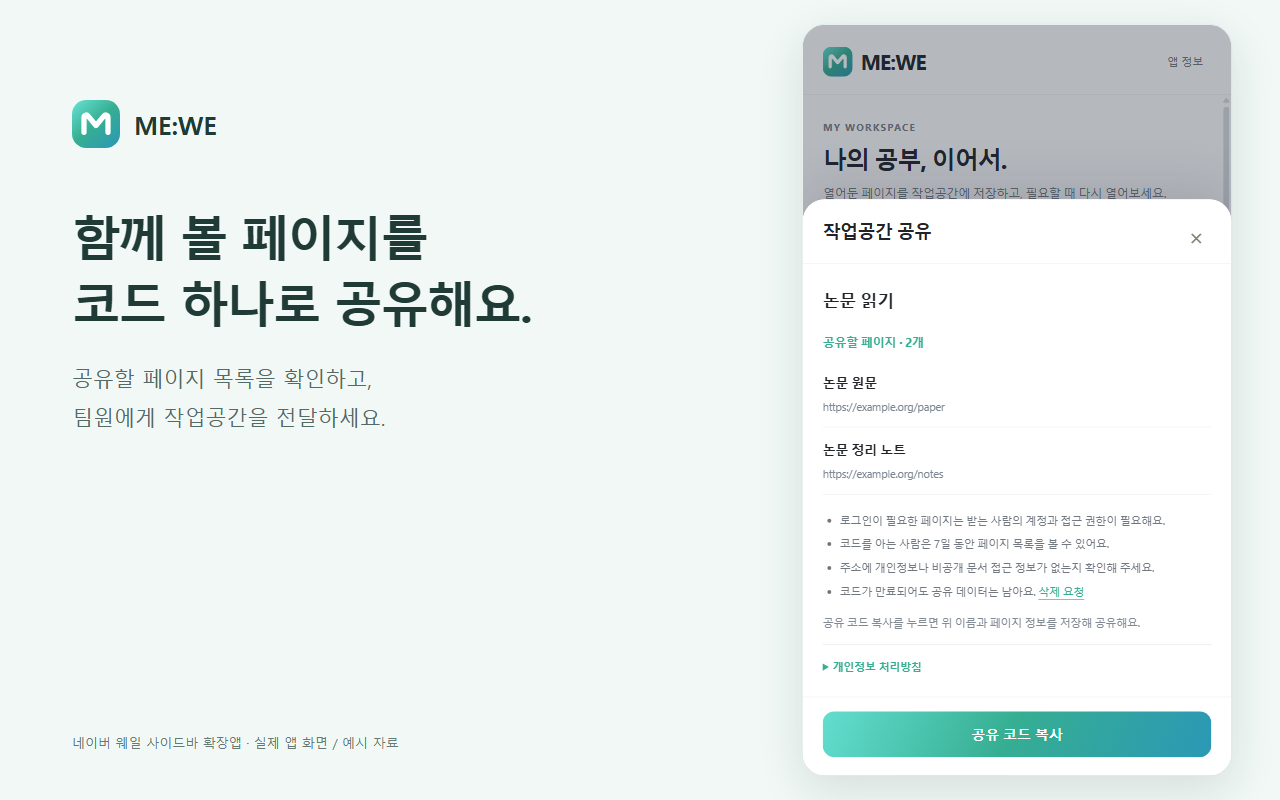
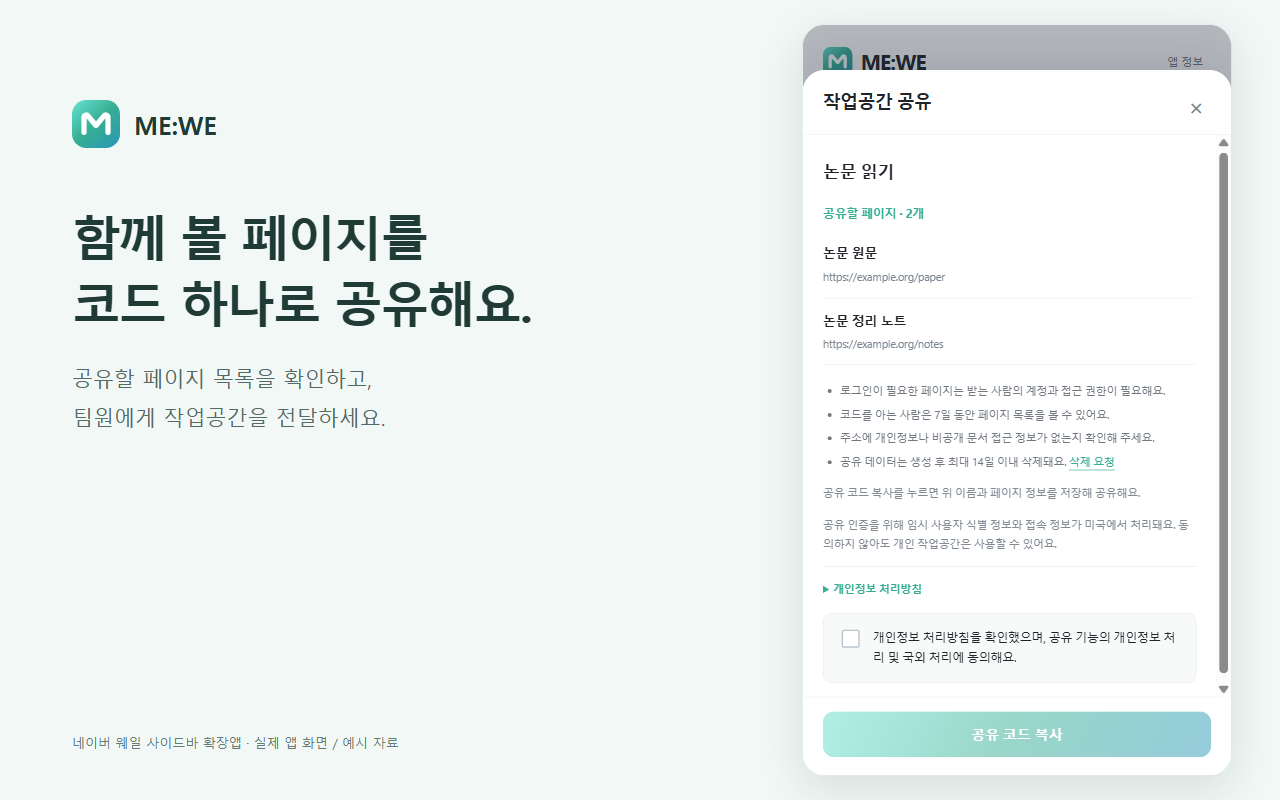
개인정보 정책 확정과 공유 동의 절차 보완

Changed region(s): [[0.625, 0.0625, 0.9688, 0.8438], [0.625, 0.4688, 0.9062, 0.8438], [0.625, 0.875, 0.9688, 0.9688]]

diff --git a/docs/privacy/index.html b/docs/privacy/index.html
@@ -1,7 +1,7 @@
-<!doctype html><html lang="ko"><head><meta charset="utf-8"><meta name="viewport" content="width=device-width,initial-scale=1"><meta name="robots" content="noindex"><title>ME:WE 개인정보 처리방침 초안</title><style>body{margin:0;background:#fff;color:#202429;font:16px/1.85 system-ui,sans-serif}main{max-width:760px;margin:auto;padding:40px 22px 64px}h1{font-size:28px;line-height:1.4}h2{font-size:20px;margin-top:36px}p{overflow-wrap:anywhere}a{color:#36ae92}aside{background:#edf9f5;padding:16px;border-radius:12px}small{color:#727880}</style></head><body><main><h1>ME:WE 개인정보 처리방침 초안</h1><small>작성일 2026-10-12</small><aside>공개 전 검토본입니다. 서버 데이터 보관·삭제 일정과 실제 Firestore 저장 위치를 확정한 뒤 시행일과 함께 공개합니다.</aside><p><a href="mailto:h33jin.jeong@gmail.com">문의: h33jin.jeong@gmail.com</a></p><section><h2>운영 및 문의</h2><p>ME:WE의 운영팀은 ewhale이며 개발자는 정희진입니다. 기능, 개인정보 처리, 삭제·처리 정지·동의 철회 및 부적절한 공유 내용에 관한 문의는 h33jin.jeong@gmail.com으로 보내 주세요.</p><p>삭제 요청 시 공유한 시점 등 확인에 필요한 최소한의 정보만 이메일로 전달해 주세요. 공유 코드나 개인정보를 공개 게시판에 올리거나 비밀번호·인증 토큰·로컬 파일을 보내지 마세요. 필요한 본인 확인과 처리 범위를 개별 안내합니다.</p></section>
+<!doctype html><html lang="ko"><head><meta charset="utf-8"><meta name="viewport" content="width=device-width,initial-scale=1"><title>ME:WE 개인정보 처리방침</title><style>body{margin:0;background:#fff;color:#202429;font:16px/1.85 system-ui,sans-serif}main{max-width:760px;margin:auto;padding:40px 22px 64px}h1{font-size:28px;line-height:1.4}h2{font-size:20px;margin-top:36px}p{overflow-wrap:anywhere}a{color:#36ae92}aside{background:#edf9f5;padding:16px;border-radius:12px}small{color:#727880}</style></head><body><main><h1>ME:WE 개인정보 처리방침</h1><small>시행일 2026-10-12</small><aside>시행일: 2026년 10월 12일. 운영팀 ewhale, 개인정보 보호 및 문의 담당자 정희진.</aside><p><a href="mailto:h33jin.jeong@gmail.com">문의: h33jin.jeong@gmail.com</a></p><section><h2>운영 및 문의</h2><p>ME:WE의 운영팀은 ewhale이며 개발자는 정희진입니다. 기능, 개인정보 처리, 삭제·처리 정지·동의 철회 및 부적절한 공유 내용에 관한 문의는 h33jin.jeong@gmail.com으로 보내 주세요.</p><p>열람·정정·삭제·처리 정지·동의 철회를 요청할 수 있습니다. 문의 이메일로 요청 범위와 공유 시점 등 확인에 필요한 최소 정보만 보내 주세요. 공유 코드와 개인 URL은 공개 게시판에 올리지 마세요. 비밀번호·인증 토큰·로컬 파일은 요구하지 않습니다. 요청자와 정보의 관계를 확인한 뒤 처리하며, 확인이 어렵거나 처리할 수 없는 경우 그 이유와 필요한 절차를 안내합니다.</p></section>
 <section><h2>기기에 저장하는 정보</h2><p>작업공간 이름, 페이지 제목·주소·순서, 듀얼탭 구성, 식별자 및 생성·수정 시각은 확장앱의 로컬 저장소에 저장합니다. 로컬 파일은 파일 내용 대신 파일 경로와 제목만 저장합니다. 개인 작업공간은 자동으로 서버에 업로드하지 않습니다.</p><p>열어둔 페이지를 가져올 때 탭 제목·주소와 ID를 읽습니다. 듀얼탭 양쪽을 확인하기 위해 debugger.getTargets로 탭 ID를 조회하지만 디버거를 연결하거나 명령을 보내지는 않습니다. 앱이 연 탭의 ID는 해당 탭만 닫기 위한 용도로 세션 저장소에 보관합니다.</p><p>공유 기능을 사용하면 익명 인증 ID와 인증·갱신 토큰을 로컬에 보관합니다. 토큰을 공유 문서에는 넣지 않습니다. 공유받은 미리보기는 세션 저장소에 최대 10건 보관하며, 최대 15분 후 사용할 수 없게 됩니다. 유효기간 경과와 저장소에서의 즉시 삭제는 동일하지 않습니다.</p></section>
-<section><h2>공유할 때 서버로 전송하는 정보</h2><p>공유 코드 복사를 누르면 미리보기에 표시된 작업공간 이름과 공유 가능한 웹페이지 제목·URL·순서·듀얼탭 구성·페이지 식별자, 익명 사용자 ID, 생성·만료 시각 및 데이터 형식 버전을 Google Firebase Cloud Firestore에 저장합니다. 목적은 공유 코드 생성과 해당 작업공간의 전달입니다.</p><p>로컬 파일의 이름·경로·내용과 브라우저 탭 ID는 공유 문서에서 제외합니다. 쿠키, 웹사이트 로그인 세션, 페이지 본문을 수집해 전송하지 않습니다. 다만 웹 주소 자체에는 검색어, 개인 식별 정보 또는 문서 접근 토큰이 포함될 수 있으므로 공유 전에 주소를 확인해야 합니다.</p><p>공유와 받기는 선택 기능입니다. 이를 사용하지 않아도 개인 작업공간을 저장하고 다시 열 수 있습니다. 공유 코드 생성 또는 코드 확인 시 Firebase 익명 인증을 사용하며 이름·이메일·비밀번호를 입력하는 별도 회원가입을 요구하지 않습니다.</p></section>
-<section><h2>공유 범위와 유효기간</h2><p>공유 코드를 알고 있는 사람은 앱을 통해 유효기간 안에 공유된 페이지 목록을 확인할 수 있습니다. 코드 소지는 원본 웹사이트의 로그인·열람 권한을 대신하지 않습니다. 공유 유효기간은 생성 시점부터 7일입니다.</p><p>7일 후에는 서버 규칙으로 조회를 차단합니다. 현재 만료 문서의 자동 삭제 기능은 없으며 관리자 삭제 전까지 서버에 남습니다. 실제 삭제 주기와 최대 보관 기간은 공개 전 확정 사항입니다. 7일 후 자동 삭제되는 서비스로 안내하지 않습니다.</p><p>내 작업공간을 수정·삭제하거나 앱을 제거해도 이미 생성한 서버 공유본은 삭제되지 않습니다. 현재 앱에는 공유본 삭제·중단 버튼이 없습니다. 삭제·처리 정지는 문의 이메일로 요청할 수 있습니다. 받는 사람이 이미 저장한 복사본까지 원격으로 회수할 수는 없습니다.</p></section>
-<section><h2>외부 서비스 및 처리 위치</h2><p>Google Firebase의 Authentication은 익명 인증을, Cloud Firestore는 공유 정보 저장·조회를 담당합니다. Firebase 인증 서비스는 부정 사용 방지를 위해 IP 주소와 브라우저 정보 등을 처리할 수 있습니다. 별도의 광고·사용 분석 SDK는 앱에 포함하지 않습니다.</p><p>Firebase 공식 안내에 따르면 Authentication은 미국에서 처리됩니다. Firestore는 프로젝트에 설정된 위치를 사용하며 실제 운영 프로젝트의 위치는 공개 전 확인해야 합니다. 데이터 항목·처리 목적·보관 기간과 함께 국외 처리에 필요한 고지·동의 내용을 확정합니다.</p><p>Firebase 인증 계정은 앱 삭제와 함께 자동으로 삭제되지 않습니다. 운영자의 계정 삭제 절차 및 공급자의 삭제·백업 보관 정책이 적용됩니다. 웹페이지 열기는 해당 사이트에 직접 접속하는 동작이므로 해당 사이트의 개인정보 처리방침이 적용됩니다.</p><p><a href="https://firebase.google.com/support/privacy" rel="noopener noreferrer">Firebase 개인정보 및 보안 안내</a></p></section>
-<section><h2>보관과 삭제</h2><p>개인 작업공간은 사용자가 카드 메뉴에서 삭제할 수 있습니다. 삭제는 브라우저 탭이나 원본 파일을 삭제하지 않습니다. 확장앱 제거 시 브라우저가 앱의 로컬 저장소를 제거하며, 이것은 Firebase의 공유 문서나 익명 계정 삭제를 뜻하지 않습니다.</p><p>탭 실행 추적용 세션 정보는 브라우저 종료 또는 확장앱 다시 로드 시 초기화됩니다. 서버 공유 문서와 익명 계정은 각각 별도 삭제가 필요합니다. 문의 메일에도 개인 정보가 포함될 수 있으므로 처리 완료 후 보관·삭제 기준을 공개 전에 함께 확정합니다.</p></section>
-<section><h2>보호 조치와 변경 안내</h2><p>서버 통신에는 HTTPS와 Firebase 인증 토큰을 사용합니다. Firestore 규칙은 전체 목록 조회와 공유본 수정을 차단하고, 유효기간 및 생성 데이터 형식을 확인합니다. 공유 코드와 주소를 전달할 상대는 신중하게 선택해 주세요.</p><p>이 안내는 현재 0.3.0 구현을 기준으로 작성했습니다. 공개 시 확정한 시행일과 변경 내용을 안내하며, 처리 목적·항목·보관 방법이 변경되면 안내와 실제 구현을 함께 갱신합니다.</p></section></main></body></html>
+<section><h2>공유할 때 서버로 전송하는 정보</h2><p>공유 코드 복사를 누르면 미리보기에 표시된 작업공간 이름과 공유 가능한 웹페이지 제목·URL·순서·듀얼탭 구성·페이지 식별자, 익명 사용자 ID, 생성·만료 시각 및 데이터 형식 버전을 Google Firebase Cloud Firestore에 저장합니다. 목적은 공유 코드 생성과 해당 작업공간의 전달입니다.</p><p>로컬 파일의 이름·경로·내용과 브라우저 탭 ID는 공유 문서에서 제외합니다. 쿠키, 웹사이트 로그인 세션, 페이지 본문을 수집해 전송하지 않습니다. 다만 웹 주소 자체에는 검색어, 개인 식별 정보 또는 문서 접근 토큰이 포함될 수 있으므로 공유 전에 주소를 확인해야 합니다.</p><p>공유와 받기는 선택 기능입니다. 이를 사용하지 않아도 개인 작업공간을 저장하고 다시 열 수 있습니다. 공유하기·공유받기 화면에서 정보 처리 및 국외 처리에 동의한 뒤 실행 버튼을 누를 때 Firebase 익명 인증을 사용합니다. 체크박스는 자동 선택하지 않으며 동의만으로 서버 요청을 보내지 않습니다. 이름·이메일·비밀번호를 입력하는 별도 회원가입을 요구하지 않습니다.</p></section>
+<section><h2>공유 범위와 유효기간</h2><p>공유 코드를 알고 있는 사람은 앱을 통해 유효기간 안에 공유된 페이지 목록을 확인할 수 있습니다. 코드 소지는 원본 웹사이트의 로그인·열람 권한을 대신하지 않습니다. 공유 유효기간은 생성 시점부터 7일입니다.</p><p>정상 생성한 공유 코드는 7일 후 조회가 차단됩니다. 코드 만료 즉시 문서가 삭제되는 것은 아닙니다. 담당자 정희진이 만료 자료를 매주 정리하며 공유 문서는 생성 후 최대 14일 이내에 운영 데이터베이스에서 삭제합니다. 현재 서버의 자동 삭제 작업은 사용하지 않습니다.</p><p>내 작업공간을 수정·삭제하거나 앱을 제거해도 이미 생성한 서버 공유본은 삭제되지 않습니다. 현재 앱에는 공유본 삭제·중단 버튼이 없습니다. 삭제·처리 정지는 문의 이메일로 요청할 수 있습니다. 받는 사람이 이미 저장한 복사본까지 원격으로 회수할 수는 없습니다.</p></section>
+<section><h2>외부 서비스 및 처리 위치</h2><p>Google Firebase의 Authentication은 익명 인증을, Cloud Firestore는 공유 정보 저장·조회를 담당합니다. Firebase 인증 서비스는 부정 사용 방지를 위해 IP 주소와 브라우저 정보 등을 처리할 수 있습니다. 별도의 광고·사용 분석 SDK는 앱에 포함하지 않습니다.</p><p>공유 문서를 저장하는 Cloud Firestore 데이터베이스의 설정 위치는 대한민국 서울(asia-northeast3)입니다. Firebase Authentication은 이 설정과 별개로 미국에서 처리됩니다.</p><p>인증 정보의 국외 처리 수탁자는 Google LLC(Firebase)이며, 이전 국가는 미국입니다. 공유 생성 또는 코드 확인 시 HTTPS 통신으로 임시 사용자 ID, 인증·갱신 토큰, IP 주소 및 브라우저 정보가 처리됩니다. 목적은 요청자 인증, 공유 서비스 제공 및 부정 사용 방지입니다. Google의 문의 창구는 아래 Firebase 지원 링크에서 확인할 수 있습니다.</p><p>익명 인증 계정은 공유 인증 유지 기간 동안 보관하며, 이용 종료·동의 철회·계정 삭제를 요청하면 필요한 본인 확인 후 삭제 처리합니다. 앱 삭제만으로 서버 인증 계정이 삭제되지는 않습니다. Firebase 안내에 따르면 인증 IP 로그는 수 주 보관되고 계정 삭제 후 인증 정보는 운영·백업 시스템에서 최대 180일 이내 제거됩니다. 이 공급자 보관 기간은 ME:WE 공유 문서의 최대 14일 보관 기간과 다릅니다.</p><p>국외 처리를 거부하려면 공유 기능에 동의하지 않으면 됩니다. 거부 시 공유 생성·코드 확인은 이용할 수 없지만 개인 작업공간 저장·수정·열기는 계속 사용할 수 있습니다. 이미 동의한 경우 추가 공유를 중단하고 담당자에게 처리 정지·삭제를 요청할 수 있습니다. 웹페이지를 열면 해당 사이트에 직접 접속하며 그 사이트의 개인정보 처리방침이 적용됩니다.</p><p><a href="https://firebase.google.com/support/privacy" rel="noopener noreferrer">Firebase 개인정보 및 보안 안내</a></p><p><a href="https://firebase.google.com/support" rel="noopener noreferrer">Firebase 지원·문의</a></p></section>
+<section><h2>보관과 삭제</h2><p>개인 작업공간은 사용자가 카드 메뉴에서 삭제할 수 있습니다. 삭제는 브라우저 탭이나 원본 파일을 삭제하지 않습니다. 확장앱 제거 시 브라우저가 앱의 로컬 저장소를 제거하며, 이것은 Firebase의 공유 문서나 익명 계정 삭제를 뜻하지 않습니다.</p><p>탭 실행 추적용 세션 정보는 브라우저 종료 또는 확장앱 다시 로드 시 초기화됩니다. 서버 공유 문서와 익명 계정은 각각 별도 삭제가 필요합니다.</p><p>문의 시 이메일 주소와 문의 내용·첨부 자료를 문의 응대와 권리 행사 처리 목적으로 이용합니다. 메일과 개인 정보가 포함된 처리 기록은 처리 완료 후 30일 이내 삭제하며, 삭제 시 휴지통의 사본도 함께 정리합니다. 문의에 불필요한 개인 정보는 보내지 마세요.</p><p>삭제 대상 전자 기록은 운영 저장소에서 삭제해 복구·재사용하지 않도록 처리합니다. 별도의 민감정보·고유식별정보 입력을 요구하지 않으며 브라우저 쿠키나 웹사이트 로그인 정보도 수집하지 않습니다. 서비스 제공 과정에서 Google이 처리하는 로그·백업은 위 공급자 정책을 따릅니다.</p></section>
+<section><h2>보호 조치와 변경 안내</h2><p>서버 통신에는 HTTPS와 Firebase 인증 토큰을 사용합니다. Firestore 규칙은 전체 목록 조회와 공유본 수정을 차단하고, 유효기간 및 생성 데이터 형식을 확인합니다. 공유 코드와 주소를 전달할 상대는 신중하게 선택해 주세요.</p><p>이 안내는 현재 0.3.0 구현을 기준으로 작성했습니다. 내용이 바뀌면 앱 정보와 공개 개인정보 페이지에 변경 내용·시행일을 안내하며, 처리 목적·항목·보관 방법이 변경되면 실제 구현과 필요한 동의 절차도 함께 갱신합니다.</p></section></main></body></html>

diff --git a/shared/privacy-content.js b/shared/privacy-content.js
@@ -1,13 +1,14 @@
 // Shared by the in-app notice and the generated public policy files.
 export const supportEmail = "h33jin.jeong@gmail.com";
+export const privacyUrl = "https://heejin0316.github.io/mewe-naver-whale/privacy/";
 export const privacy = {
-  title: "ME:WE 개인정보 처리방침 초안",
+  title: "ME:WE 개인정보 처리방침",
   date: "2026-10-12",
-  status: "공개 전 검토본입니다. 서버 데이터 보관·삭제 일정과 실제 Firestore 저장 위치를 확정한 뒤 시행일과 함께 공개합니다.",
+  status: "시행일: 2026년 10월 12일. 운영팀 ewhale, 개인정보 보호 및 문의 담당자 정희진.",
   sections: [
     { title: "운영 및 문의", paragraphs: [
       `ME:WE의 운영팀은 ewhale이며 개발자는 정희진입니다. 기능, 개인정보 처리, 삭제·처리 정지·동의 철회 및 부적절한 공유 내용에 관한 문의는 ${supportEmail}으로 보내 주세요.`,
-      "삭제 요청 시 공유한 시점 등 확인에 필요한 최소한의 정보만 이메일로 전달해 주세요. 공유 코드나 개인정보를 공개 게시판에 올리거나 비밀번호·인증 토큰·로컬 파일을 보내지 마세요. 필요한 본인 확인과 처리 범위를 개별 안내합니다."
+      "열람·정정·삭제·처리 정지·동의 철회를 요청할 수 있습니다. 문의 이메일로 요청 범위와 공유 시점 등 확인에 필요한 최소 정보만 보내 주세요. 공유 코드와 개인 URL은 공개 게시판에 올리지 마세요. 비밀번호·인증 토큰·로컬 파일은 요구하지 않습니다. 요청자와 정보의 관계를 확인한 뒤 처리하며, 확인이 어렵거나 처리할 수 없는 경우 그 이유와 필요한 절차를 안내합니다."
     ] },
     { title: "기기에 저장하는 정보", paragraphs: [
       "작업공간 이름, 페이지 제목·주소·순서, 듀얼탭 구성, 식별자 및 생성·수정 시각은 확장앱의 로컬 저장소에 저장합니다. 로컬 파일은 파일 내용 대신 파일 경로와 제목만 저장합니다. 개인 작업공간은 자동으로 서버에 업로드하지 않습니다.",
@@ -17,25 +18,29 @@ export const privacy = {
     { title: "공유할 때 서버로 전송하는 정보", paragraphs: [
       "공유 코드 복사를 누르면 미리보기에 표시된 작업공간 이름과 공유 가능한 웹페이지 제목·URL·순서·듀얼탭 구성·페이지 식별자, 익명 사용자 ID, 생성·만료 시각 및 데이터 형식 버전을 Google Firebase Cloud Firestore에 저장합니다. 목적은 공유 코드 생성과 해당 작업공간의 전달입니다.",
       "로컬 파일의 이름·경로·내용과 브라우저 탭 ID는 공유 문서에서 제외합니다. 쿠키, 웹사이트 로그인 세션, 페이지 본문을 수집해 전송하지 않습니다. 다만 웹 주소 자체에는 검색어, 개인 식별 정보 또는 문서 접근 토큰이 포함될 수 있으므로 공유 전에 주소를 확인해야 합니다.",
-      "공유와 받기는 선택 기능입니다. 이를 사용하지 않아도 개인 작업공간을 저장하고 다시 열 수 있습니다. 공유 코드 생성 또는 코드 확인 시 Firebase 익명 인증을 사용하며 이름·이메일·비밀번호를 입력하는 별도 회원가입을 요구하지 않습니다."
+      "공유와 받기는 선택 기능입니다. 이를 사용하지 않아도 개인 작업공간을 저장하고 다시 열 수 있습니다. 공유하기·공유받기 화면에서 정보 처리 및 국외 처리에 동의한 뒤 실행 버튼을 누를 때 Firebase 익명 인증을 사용합니다. 체크박스는 자동 선택하지 않으며 동의만으로 서버 요청을 보내지 않습니다. 이름·이메일·비밀번호를 입력하는 별도 회원가입을 요구하지 않습니다."
     ] },
     { title: "공유 범위와 유효기간", paragraphs: [
       "공유 코드를 알고 있는 사람은 앱을 통해 유효기간 안에 공유된 페이지 목록을 확인할 수 있습니다. 코드 소지는 원본 웹사이트의 로그인·열람 권한을 대신하지 않습니다. 공유 유효기간은 생성 시점부터 7일입니다.",
-      "7일 후에는 서버 규칙으로 조회를 차단합니다. 현재 만료 문서의 자동 삭제 기능은 없으며 관리자 삭제 전까지 서버에 남습니다. 실제 삭제 주기와 최대 보관 기간은 공개 전 확정 사항입니다. 7일 후 자동 삭제되는 서비스로 안내하지 않습니다.",
+      "정상 생성한 공유 코드는 7일 후 조회가 차단됩니다. 코드 만료 즉시 문서가 삭제되는 것은 아닙니다. 담당자 정희진이 만료 자료를 매주 정리하며 공유 문서는 생성 후 최대 14일 이내에 운영 데이터베이스에서 삭제합니다. 현재 서버의 자동 삭제 작업은 사용하지 않습니다.",
       "내 작업공간을 수정·삭제하거나 앱을 제거해도 이미 생성한 서버 공유본은 삭제되지 않습니다. 현재 앱에는 공유본 삭제·중단 버튼이 없습니다. 삭제·처리 정지는 문의 이메일로 요청할 수 있습니다. 받는 사람이 이미 저장한 복사본까지 원격으로 회수할 수는 없습니다."
     ] },
     { title: "외부 서비스 및 처리 위치", paragraphs: [
       "Google Firebase의 Authentication은 익명 인증을, Cloud Firestore는 공유 정보 저장·조회를 담당합니다. Firebase 인증 서비스는 부정 사용 방지를 위해 IP 주소와 브라우저 정보 등을 처리할 수 있습니다. 별도의 광고·사용 분석 SDK는 앱에 포함하지 않습니다.",
-      "Firebase 공식 안내에 따르면 Authentication은 미국에서 처리됩니다. Firestore는 프로젝트에 설정된 위치를 사용하며 실제 운영 프로젝트의 위치는 공개 전 확인해야 합니다. 데이터 항목·처리 목적·보관 기간과 함께 국외 처리에 필요한 고지·동의 내용을 확정합니다.",
-      "Firebase 인증 계정은 앱 삭제와 함께 자동으로 삭제되지 않습니다. 운영자의 계정 삭제 절차 및 공급자의 삭제·백업 보관 정책이 적용됩니다. 웹페이지 열기는 해당 사이트에 직접 접속하는 동작이므로 해당 사이트의 개인정보 처리방침이 적용됩니다."
-    ], links: [{ label: "Firebase 개인정보 및 보안 안내", url: "https://firebase.google.com/support/privacy" }] },
+      "공유 문서를 저장하는 Cloud Firestore 데이터베이스의 설정 위치는 대한민국 서울(asia-northeast3)입니다. Firebase Authentication은 이 설정과 별개로 미국에서 처리됩니다.",
+      "인증 정보의 국외 처리 수탁자는 Google LLC(Firebase)이며, 이전 국가는 미국입니다. 공유 생성 또는 코드 확인 시 HTTPS 통신으로 임시 사용자 ID, 인증·갱신 토큰, IP 주소 및 브라우저 정보가 처리됩니다. 목적은 요청자 인증, 공유 서비스 제공 및 부정 사용 방지입니다. Google의 문의 창구는 아래 Firebase 지원 링크에서 확인할 수 있습니다.",
+      "익명 인증 계정은 공유 인증 유지 기간 동안 보관하며, 이용 종료·동의 철회·계정 삭제를 요청하면 필요한 본인 확인 후 삭제 처리합니다. 앱 삭제만으로 서버 인증 계정이 삭제되지는 않습니다. Firebase 안내에 따르면 인증 IP 로그는 수 주 보관되고 계정 삭제 후 인증 정보는 운영·백업 시스템에서 최대 180일 이내 제거됩니다. 이 공급자 보관 기간은 ME:WE 공유 문서의 최대 14일 보관 기간과 다릅니다.",
+      "국외 처리를 거부하려면 공유 기능에 동의하지 않으면 됩니다. 거부 시 공유 생성·코드 확인은 이용할 수 없지만 개인 작업공간 저장·수정·열기는 계속 사용할 수 있습니다. 이미 동의한 경우 추가 공유를 중단하고 담당자에게 처리 정지·삭제를 요청할 수 있습니다. 웹페이지를 열면 해당 사이트에 직접 접속하며 그 사이트의 개인정보 처리방침이 적용됩니다."
+    ], links: [{ label: "Firebase 개인정보 및 보안 안내", url: "https://firebase.google.com/support/privacy" }, { label: "Firebase 지원·문의", url: "https://firebase.google.com/support" }] },
     { title: "보관과 삭제", paragraphs: [
       "개인 작업공간은 사용자가 카드 메뉴에서 삭제할 수 있습니다. 삭제는 브라우저 탭이나 원본 파일을 삭제하지 않습니다. 확장앱 제거 시 브라우저가 앱의 로컬 저장소를 제거하며, 이것은 Firebase의 공유 문서나 익명 계정 삭제를 뜻하지 않습니다.",
-      "탭 실행 추적용 세션 정보는 브라우저 종료 또는 확장앱 다시 로드 시 초기화됩니다. 서버 공유 문서와 익명 계정은 각각 별도 삭제가 필요합니다. 문의 메일에도 개인 정보가 포함될 수 있으므로 처리 완료 후 보관·삭제 기준을 공개 전에 함께 확정합니다."
+      "탭 실행 추적용 세션 정보는 브라우저 종료 또는 확장앱 다시 로드 시 초기화됩니다. 서버 공유 문서와 익명 계정은 각각 별도 삭제가 필요합니다.",
+      "문의 시 이메일 주소와 문의 내용·첨부 자료를 문의 응대와 권리 행사 처리 목적으로 이용합니다. 메일과 개인 정보가 포함된 처리 기록은 처리 완료 후 30일 이내 삭제하며, 삭제 시 휴지통의 사본도 함께 정리합니다. 문의에 불필요한 개인 정보는 보내지 마세요.",
+      "삭제 대상 전자 기록은 운영 저장소에서 삭제해 복구·재사용하지 않도록 처리합니다. 별도의 민감정보·고유식별정보 입력을 요구하지 않으며 브라우저 쿠키나 웹사이트 로그인 정보도 수집하지 않습니다. 서비스 제공 과정에서 Google이 처리하는 로그·백업은 위 공급자 정책을 따릅니다."
     ] },
     { title: "보호 조치와 변경 안내", paragraphs: [
       "서버 통신에는 HTTPS와 Firebase 인증 토큰을 사용합니다. Firestore 규칙은 전체 목록 조회와 공유본 수정을 차단하고, 유효기간 및 생성 데이터 형식을 확인합니다. 공유 코드와 주소를 전달할 상대는 신중하게 선택해 주세요.",
-      "이 안내는 현재 0.3.0 구현을 기준으로 작성했습니다. 공개 시 확정한 시행일과 변경 내용을 안내하며, 처리 목적·항목·보관 방법이 변경되면 안내와 실제 구현을 함께 갱신합니다."
+      "이 안내는 현재 0.3.0 구현을 기준으로 작성했습니다. 내용이 바뀌면 앱 정보와 공개 개인정보 페이지에 변경 내용·시행일을 안내하며, 처리 목적·항목·보관 방법이 변경되면 실제 구현과 필요한 동의 절차도 함께 갱신합니다."
     ] }
   ]
 };

diff --git a/features/sharing/view.js b/features/sharing/view.js
@@ -8,6 +8,17 @@ function pageList(pages) {
 }
 const accessNote = () => el("p", { className: "muted share-note" }, "로그인이 필요한 페이지는 받는 사람의 계정과 접근 권한이 필요해요.");
 
+function sharingConsent(sheet, onChange) {
+  const input = el("input", { type: "checkbox" });
+  input.addEventListener("change", onChange);
+  sheet.body.append(
+    el("p", { className: "muted share-note" }, "공유 인증을 위해 임시 사용자 식별 정보와 접속 정보가 미국에서 처리돼요. 동의하지 않아도 개인 작업공간은 사용할 수 있어요."),
+    privacyDetails(),
+    el("label", { className: "check-line share-consent" }, input, el("span", {}, "개인정보 처리방침을 확인했으며, 공유 기능의 개인정보 처리 및 국외 처리에 동의해요."))
+  );
+  return input;
+}
+
 export function openShare(services, value) {
   const prepared = prepareShare(value);
   const sheet = services.modal.open("작업공간 공유"); if (!sheet) return;
@@ -23,12 +34,14 @@ export function openShare(services, value) {
     el("li", {}, "로그인이 필요한 페이지는 받는 사람의 계정과 접근 권한이 필요해요."),
     el("li", {}, `코드를 아는 사람은 ${SHARE_DAYS}일 동안 페이지 목록을 볼 수 있어요.`),
     el("li", {}, "주소에 개인정보나 비공개 문서 접근 정보가 없는지 확인해 주세요."),
-    el("li", {}, "코드가 만료되어도 공유 데이터는 남아요. ", el("a", { href: `mailto:${supportEmail}` }, "삭제 요청"))),
-    el("p", { className: "muted share-note" }, "공유 코드 복사를 누르면 위 이름과 페이지 정보를 저장해 공유해요."), privacyDetails());
+    el("li", {}, "공유 데이터는 생성 후 최대 14일 이내 삭제돼요. ", el("a", { href: `mailto:${supportEmail}` }, "삭제 요청"))),
+    el("p", { className: "muted share-note" }, "공유 코드 복사를 누르면 위 이름과 페이지 정보를 저장해 공유해요."));
   const codeInput = el("input", { readOnly: true, "aria-label": "생성된 공유 코드", className: "share-code" });
   const result = el("div", { hidden: true }, field("공유 코드", codeInput), el("p", { className: "muted", role: "status" }));
   sheet.body.append(result);
   const copy = button("공유 코드 복사", (event) => busy(event.currentTarget, async () => {
+    if (!consent.checked) throw new Error("공유 기능에 필요한 정보 처리에 동의해 주세요.");
+    consent.disabled = true;
     sheet.error(""); copy.textContent = "공유 코드 준비 중…";
     try {
       if (!issued || Date.parse(issued.expiresAt) <= Date.now()) issued = await services.sharing.create(value);
@@ -42,9 +55,10 @@ export function openShare(services, value) {
         codeInput.focus(); codeInput.select();
         sheet.error("자동 복사를 완료하지 못했어요. 선택된 코드를 Ctrl+C로 복사하거나 다시 눌러 주세요.");
       }
-    } finally { copy.textContent = "공유 코드 복사"; }
+    } finally { copy.textContent = "공유 코드 복사"; consent.disabled = false; }
   }, sheet.error), "btn primary full");
-  copy.disabled = !prepared.pages.length;
+  const consent = sharingConsent(sheet, () => { copy.disabled = !prepared.pages.length || !consent.checked; });
+  copy.disabled = true;
   sheet.footer.append(copy);
 }
 
@@ -54,7 +68,9 @@ export function openReceive(services) {
   const input = el("input", { placeholder: "공유 코드를 입력하세요", maxLength: 40, autoComplete: "off", spellcheck: false, className: "share-code" });
   const check = button("작업공간 확인", (event) => busy(event.currentTarget, async () => {
     sheet.error("");
+    if (!consent.checked) throw new Error("공유 기능에 필요한 정보 처리에 동의해 주세요.");
     const code = normalizeCode(input.value);
+    consent.disabled = true;
     check.textContent = "확인 중…";
     try {
       const result = await services.sharing.get(code);
@@ -77,8 +93,11 @@ export function openReceive(services) {
       }
       sheet.footer.replaceChildren(el("div", { className: "share-actions" }, save, open));
       save.focus();
-    } finally { check.textContent = "작업공간 확인"; }
+    } finally { check.textContent = "작업공간 확인"; consent.disabled = false; }
   }, sheet.error), "btn primary full");
-  input.addEventListener("keydown", (event) => { if (event.key === "Enter") { event.preventDefault(); check.click(); } });
-  sheet.body.append(field("공유 코드", input)); sheet.footer.append(check); input.focus();
+  input.addEventListener("keydown", (event) => { if (event.key === "Enter" && !event.isComposing && event.keyCode !== 229) { event.preventDefault(); check.click(); } });
+  sheet.body.append(field("공유 코드", input));
+  const consent = sharingConsent(sheet, () => { check.disabled = !consent.checked; });
+  check.disabled = true;
+  sheet.footer.append(check); input.focus();
 }

diff --git a/features/about/view.js b/features/about/view.js
@@ -1,11 +1,12 @@
 import { el, button } from "../../shared/dom.js";
 import { api } from "../../shared/browser.js";
-import { privacy, supportEmail } from "../../shared/privacy-content.js";
+import { privacy, privacyUrl, supportEmail } from "../../shared/privacy-content.js";
 
 export function privacyDetails() {
   return el("details", { className: "privacy-details about-content" }, el("summary", {}, "개인정보 처리방침"),
     el("p", { className: "notice" }, privacy.status),
-    el("p", { className: "muted" }, `작성일 ${privacy.date}`),
+    el("p", { className: "muted" }, `시행일 ${privacy.date}`),
+    el("a", { href: privacyUrl, target: "_blank", rel: "noopener noreferrer" }, "개인정보 처리방침 웹페이지"),
     ...privacy.sections.map(section => el("section", {}, el("h3", {}, section.title),
       ...section.paragraphs.map(p => el("p", {}, p)),
       ...(section.links || []).map(link => el("a", { href: link.url, target: "_blank", rel: "noopener noreferrer" }, link.label)))));

diff --git a/shared/refinement.css b/shared/refinement.css
@@ -136,6 +136,8 @@ input[type=checkbox]:disabled{opacity:.5;cursor:default}
 .share-code{font-variant-numeric:tabular-nums;letter-spacing:1px}
 .sharing .field{margin:18px 0 8px}
 .share-actions{display:flex;gap:8px}.share-actions .btn{flex:1;min-width:0}.sheet-footer .share-actions .btn+.btn{margin:0}
+.share-consent{align-items:flex-start;margin-top:14px;line-height:1.7;background:#f7faf9}
+.share-consent input{margin-top:2px}
 .sheet>.toast{bottom:82px}
 .app-info-button{font-size:11px;min-height:32px;padding:6px 8px;border-radius:8px;color:#727880}
 .app-info-button:hover{background:#f5f7f8}

diff --git a/docs/START-HERE.md b/docs/START-HERE.md
@@ -1,50 +1,42 @@
 # ME:WE 웨일스토어 제출 준비
 
-현재 버전은 0.3.0입니다. 이 폴더는 등록 문구, 개인정보 안내, 심사 설명과 남은 작업을 모은 저장소 자료입니다. GitHub 저장소 게시와 별개로 개인정보 웹페이지 배포와 스토어 제출은 아직 진행하지 않았습니다.
+앱 버전 0.3.0 · 운영팀 ewhale · 개발자 정희진 · 문의 h33jin.jeong@gmail.com.
 
-## 먼저 볼 문서
+## 준비된 자료
 
-| 자료 | 용도 |
-| --- | --- |
-| [제출 체크리스트](release-checklist.md) | 제출을 막는 미완료 항목과 확인 결과 |
-| [스토어 설명](store-description.md) | 등록 화면에 넣을 이름·소개·문의 정보 |
-| [심사 설명](review-notes.md) | 권한 사유와 재현 가능한 기능 시험 방법 |
-| [개인정보 처리방침](../PRIVACY.md) | 실제 구현 기준 초안 |
-| [개인정보 웹페이지](privacy/index.html) | 로그인 없이 공개할 정적 HTML 초안 |
-| [운영 절차](operations.md) | 데이터 삭제 요청·만료 문서·장애 대응 |
-| [스크린샷 준비](screenshots.md) | 4장 구성과 촬영 시 가릴 정보 |
+- [전달 폴더](../delivery/): 팀원·스토어 공용 앱 ZIP, 128px 아이콘, 1280×800 스크린샷 2장, 설치·제출 안내
+- [개인정보 처리방침](../PRIVACY.md): 시행일 2026-10-12, Firestore 서울 및 Authentication 미국 처리 안내
+- [운영 절차](operations.md): 공유 문서 최대 14일 보관·매주 정리, 문의 완료 후 30일 내 삭제
+- [스토어 설명](store-description.md), [심사 설명](review-notes.md), [제출 체크리스트](release-checklist.md)
+- 개인정보 공개 주소: https://heejin0316.github.io/mewe-naver-whale/privacy/
 
-## 지금 필요한 결정
+## 반영한 확인 결과
 
-운영팀 **ewhale**, 개발자 **정희진**, 문의 **h33jin.jeong@gmail.com**으로 확정했습니다. 코드는 [MIT](../LICENSE), 로고는 [별도 정책](brand-policy.md)을 적용합니다.
+사용자가 Firestore 서울 설정, 두 사용자 간 공유 정상 작동, 최근 팝업 오류 해결을 확인했습니다. 공유하기와 공유받기에는 기본 미선택 동의 체크박스가 있으며, 동의 전에는 인증·조회·생성 요청을 보내지 않습니다. 동의하지 않아도 개인 작업공간은 사용할 수 있습니다.
 
-1. [delivery 폴더](../delivery/)의 앱 ZIP, 아이콘, 스토어 규격 스크린샷 2장, 팀원·제출 안내를 사용합니다. 정책과 UI 보완 후 패키지·이미지는 다시 생성합니다.
-2. Firebase 콘솔에서 실제 Firestore 위치를 확인합니다. Authentication의 미국 처리와 함께 개인정보 안내를 마무리합니다.
-3. 공유 문서·익명 계정·문의 메일의 최대 보관 기간과 삭제 주기를 정합니다. 자동 삭제가 없으므로 실행 가능한 운영 절차가 필요합니다.
-4. 개인정보 요청 시 본인 확인 방법과 삭제·중단 처리 절차를 확정합니다. 앱 내 철회 기능은 추가 개선안이며 받는 사람이 저장한 복사본은 회수할 수 없습니다.
-5. 최종 ZIP으로 다른 사용자의 웨일에서 운영 Firebase 공유·받기를 확인하고 화면을 촬영합니다. 팀원에게 받은 정상 동작 피드백과 최종 후보 시험 기록을 구분합니다.
+운영자가 최대 보관 기간과 수동 삭제 업무를 수락했습니다. 서버 자동 삭제나 예약 작업이 설치된 것은 아닙니다. 요청자 확인·삭제 절차와 정기 정리의 첫 실행은 운영자가 콘솔에서 점검해야 합니다.
 
-## 앱과 문서의 연결
+## 제출 순서
 
-앱 상단의 **앱 정보**에 문의 이메일, 권한 이유, 개인정보 처리방침 초안이 있습니다. 공유 팝업에는 전송 항목·코드 공개 범위·만료와 삭제의 차이를 안내합니다.
+1. delivery의 최신 앱 ZIP을 설치해 확인합니다. 이전 ZIP과 혼용하지 않습니다.
+2. 개인정보 공개 주소의 로그아웃 접근과 자료 내용을 확인합니다.
+3. 체크리스트의 최종 설치·업데이트·운영 점검 항목을 확인합니다.
+4. 스토어에 앱 ZIP, 아이콘, 스크린샷, 설명, 개인정보 URL을 입력합니다.
+5. 공개 범위와 미리보기를 확인한 뒤 담당자가 심사를 요청합니다.
 
-개인정보 원문은 `shared/privacy-content.js` 한 곳에서 관리합니다. 수정 후 아래 명령으로 Markdown과 웹페이지를 함께 생성합니다.
+GitHub 업로드·개인정보 페이지 공개와 웨일스토어 심사·출시는 별도 단계입니다.
+
+## 재생성
+
+개인정보 원문은 shared/privacy-content.js 한 곳에서 관리합니다.
 
 ```powershell
 node scripts/build-privacy.mjs
+node scripts/capture-readme.cjs
+node scripts/capture-store.cjs
+powershell -NoProfile -File scripts/package-delivery.ps1
 ```
 
-## 공개와 제출 순서
+정책이나 UI를 바꾸면 문서·이미지·ZIP을 함께 갱신합니다. 포장 도구는 압축 해제된 모든 런타임 파일을 원본과 해시 비교합니다. 코드 MIT와 [별도 브랜드 정책](brand-policy.md)은 그대로 적용됩니다.
 
-1. 체크리스트의 공개 전 필수 항목을 마칩니다.
-2. 개인정보 문서의 초안 표시를 해제하고 시행일을 확정합니다. HTML의 `noindex`도 공개 방침에 맞게 조정합니다.
-3. 웹페이지 공개 승인 후 GitHub Pages의 배포 원본을 해당 브랜치의 `/docs`로 설정합니다. 실제 배포 설정과 공개 가능 여부는 계정에서 확인합니다.
-4. 공개된 `/privacy/` 페이지가 로그아웃 상태에서 열리는지 확인합니다. 예정 URL은 `https://heejin0316.github.io/mewe-naver-whale/privacy/`이며 아직 게시된 주소로 취급하면 안 됩니다.
-5. 같은 정책을 앱·스토어 설명에 연결하고, 최종 패키지와 스크린샷을 준비합니다.
-6. 웨일스토어 개발자 등록 후 리뷰를 요청합니다.
-
-포장 구성만 확인하려면 `powershell -NoProfile -File scripts/package-preview.ps1`을 실행합니다. 새 `release/preview-*` 폴더에 ZIP과 아이콘을 만들며, 원본이나 기존 결과를 삭제하지 않습니다. 이 ZIP은 **미완료 사항이 포함된 포장 확인본**입니다.
-
-전체 문서는 [문서 안내](README.md), 버전·ZIP 검증은 [배포 절차](releasing.md)를 참고하세요.
-
-공식 기준: [심사 가이드](https://whale.dev/review_guides/), [등록 안내](https://developers.whale.naver.com/distribution/). 확인일: 2026-10-12.
+공식 기준: [심사 가이드](https://developers.whale.naver.com/review_guides/), [등록 안내](https://developers.whale.naver.com/distribution/).

diff --git a/docs/operations.md b/docs/operations.md
@@ -1,20 +1,34 @@
 # ME:WE 공유 데이터 운영 절차
 
-운영팀: **ewhale** · 개발자: **정희진** · 문의 창구: **h33jin.jeong@gmail.com**. 이 절차는 운영자가 직접 수행하는 준비안이며 자동화가 설정된 상태가 아닙니다. Firebase Spark를 유지하고 Cloud Functions·Storage 업로드·유료 TTL은 사용하지 않습니다.
+운영팀: **ewhale** · 담당자: **정희진** · 문의 창구: **h33jin.jeong@gmail.com**. 2026-10-12 운영자가 아래 수동 운영 기준을 확정했습니다. 자동화가 설정된 상태는 아닙니다. Firebase Spark를 유지하고 Cloud Functions·Storage 업로드·유료 TTL은 사용하지 않습니다.
+
+## 확정한 운영 기준
+
+- Firestore 설정 위치: 서울 `asia-northeast3` (운영자 확인). Firebase Authentication은 별도로 미국 처리.
+- 공유 코드: 정상 생성 시 7일 유효. 만료된 문서는 매주 정리하고 생성 후 최대 14일 이내 삭제.
+- 문의 메일·개인정보가 포함된 처리 기록: 처리 완료 후 30일 이내 삭제. 휴지통도 함께 정리.
+- 익명 계정: 공유 인증 유지 중 보관. 이용 종료·동의 철회·계정 삭제 요청 시 본인 확인 후 삭제. 공급자 로그·백업 보관 기간은 정책에 별도 고지.
+- 시행일: 2026-10-12. 담당자가 자리를 비울 때도 최대 보관 기한을 넘기지 않도록 일정을 조정하거나 공유 운영을 중단합니다.
 
 ## 삭제 및 처리 정지 요청
 
 1. 이메일로 요청을 받고 목적과 대상 범위를 확인합니다. 공유 코드 등은 비공개로 다루고 비밀번호·인증 토큰은 요청하지 않습니다.
-2. 익명 계정은 이메일과 연결되지 않습니다. 코드 소지만으로 작성자임을 입증할 수 없습니다. 작성자 인증 기능이 준비되기 전에는 소유권이 불명확한 요청을 임의 삭제하지 말고 증빙·내용·안전상 필요를 검토합니다.
+2. 익명 계정은 이메일과 연결되지 않습니다. 코드·UID 소지만으로 작성자임을 입증할 수 없습니다. 공유 시점, 요청 대상에 포함된 본인 정보와의 관계 등 최소 자료를 검토합니다. 단순 코드 소지만으로 다른 사람의 자료나 계정을 삭제하지 않습니다. 소유권 확인이 안 되면 추가 확인 방법과 보류 이유를 안내합니다. 개인정보 노출 신고는 작성자 여부와 별개로 신고자의 정보와 피해를 확인하여 접근 중단 여부를 검토합니다. 비밀번호·인증 토큰·계정 전체 화면은 요구하지 않습니다.
 3. 권한이 확인되면 Firestore `shares/{정규화된 코드}`의 대상만 삭제합니다. 계정 삭제 요청은 필요한 공유 문서 처리 후 Authentication의 해당 UID를 별도로 삭제합니다. 처리 전에 대상과 범위를 재확인합니다.
 4. 삭제한 코드는 수신할 수 없는지 확인합니다. 이미 받은 사람의 로컬 복사본은 회수하지 못한다는 점을 안내합니다.
-5. 완료 시각과 최소한의 처리 결과를 기록합니다. 메일과 처리 기록의 보관 기간은 공개 전 확정합니다. 인증 토큰·원본 페이지 목록을 처리 기록에 남기지 않습니다.
+5. 완료 시각과 최소한의 처리 결과를 기록합니다. 메일과 개인정보가 포함된 처리 기록은 완료 후 30일 이내 삭제합니다. 인증 토큰·원본 페이지 목록을 처리 기록에 남기지 않습니다.
 
 ## 만료 문서 정리
 
-현재 Firestore 규칙은 만료 후 조회를 차단하지만 문서를 삭제하지 않습니다. `expiresAt`을 확인해 대상 문서를 정리하는 담당자·주기·최대 보관 기간을 확정해야 합니다. 아직 ‘매일 삭제’나 ‘7일 후 자동 삭제’라고 약속하지 않습니다. 실제 운영 방침을 확정하면 개인정보 문구도 갱신합니다.
+현재 Firestore 규칙은 만료 후 조회를 차단하지만 문서를 삭제하지 않습니다. 담당자가 매주 아래 순서로 처리합니다. ‘만료 즉시 자동 삭제’라고 안내하지 않습니다.
 
-익명 계정은 공유 문서와 별도로 남습니다. 남아 있는 문서 소유권을 고려한 계정 정리 정책이 필요합니다. 단순히 오래된 사용자라는 이유로 무조건 삭제하지 않습니다.
+1. Firebase 콘솔에서 `mewe-naver-whale`의 Firestore `(default)` → `shares` 컬렉션을 엽니다.
+2. `expiresAt`이 현재 시각 이전인 문서를 확인합니다. 별도로 `createdAt`이 현재 시각에서 14일 이전인 문서가 남아 있지 않은지도 확인합니다.
+3. 시간대와 필드 타입(timestamp), 대상 코드, 만료 여부를 확인한 후 해당 문서만 삭제합니다. 컬렉션 전체나 아직 유효한 문서를 일괄 삭제하지 않습니다.
+4. 삭제 후 해당 코드로 목록을 받을 수 없는지 확인합니다. 처리 일시·삭제 건수만 기록하고 개인 URL·코드 원문을 기록에 복사하지 않습니다.
+5. 생성 후 14일이 지난 자료가 0건인지 재확인합니다. 주간 작업을 놓치지 않도록 운영자가 일정을 관리합니다. 이번 코드 작업으로 서버 자동 삭제나 예약 작업이 생성되지는 않았습니다.
+
+익명 계정은 공유 문서와 별도로 남습니다. 이용 종료·삭제·동의 철회 요청의 대상 UID와 본인 관계를 확인한 뒤 필요한 공유 문서 처리 후 Authentication 사용자 항목에서 해당 계정을 삭제합니다. 계정 삭제만으로 Firestore 문서가 사라지지 않으므로 두 항목을 각각 확인합니다. 단순히 오래된 사용자라는 이유로 무조건 삭제하지 않습니다. Google의 인증 로그·백업 제거 기간은 운영 문서 삭제 기한과 구분합니다.
 
 ## 악용 및 콘텐츠 신고
 

diff --git a/docs/release-checklist.md b/docs/release-checklist.md
@@ -2,7 +2,7 @@
 
 상태: **준비 중 — 아직 제출하지 않음**. 기준일 2026-10-12, 앱 0.3.0. 체크되지 않은 항목은 완료한 것으로 소개하지 않습니다.
 
-2026-10-12 전체 검토: **현 상태의 심사 요청은 보류 권장**. 기능 시험·검토용 ZIP 실행은 통과했으나 개인정보 확정, 공유받기 인증 안내, 삭제 운영 검증, 운영 Firebase 최종 시험이 남았습니다. 이후 제출 이미지 2장과 전달 자료를 [delivery](../delivery/)에 준비했습니다. [상세 결과와 ZIP 해시](review-notes.md#2026-10-12-제출-전-검토)를 확인하세요.
+2026-10-12 후속 보완: 운영자가 서울 리전, 최대 14일 공유 문서 보관·주간 삭제, 문의 완료 후 30일 내 삭제 기준을 확정했습니다. 실제 두 사용자 공유 정상 동작과 최근 팝업 오류 해결도 사용자 확인으로 기록합니다. 코드의 공유 동의 절차와 공개 정책을 보완하며, 자동 시험·사용자 확인·운영 절차 실습을 구분합니다. 제출 이미지와 자료는 [delivery](../delivery/)에 있습니다.
 
 ## 정리 완료
 
@@ -21,13 +21,14 @@
 
 - [x] 최종 로고·색상 확정: 흰색 M 로고 / 이화 민트 #36AE92, 앱·README 적용
 - [x] 확정한 브랜드로 1280×800 스토어 이미지 2장 촬영 (예시 데이터, 최신 정책/UI 변경 시 재촬영)
-- [ ] 개인정보 시행일 확정
-- [ ] 운영 Firestore 실제 위치 확인, Authentication 미국 처리 관련 고지·동의 정리
-- [ ] 공유 문서 최대 보관 기간과 정기 삭제 일정 확정·실행 검증
-- [ ] 익명 계정 및 문의 메일 보관·삭제 기준 확정
+- [x] 개인정보 시행일 확정: 2026-10-12
+- [x] Firestore 서울 설정 운영자 확인, Authentication 미국 처리 고지·동의 반영
+- [x] 공유 문서 최대 14일 보관, 담당자 정희진이 매주 만료 자료 정리하는 기준 확정
+- [ ] 운영 콘솔에서 만료 문서 정리 절차 첫 실행 검증
+- [x] 익명 계정은 이용 종료·삭제 요청 시 처리, 문의는 완료 후 30일 내 삭제 기준 명시
 - [ ] 삭제·처리 정지 요청 시 작성자 확인 수단 마련. 이메일 주소만으로 익명 UID 소유권을 추정하지 않기
 - [ ] 개인정보 초안 표시 제거 후 공개 URL 로그아웃 접근 확인
-- [ ] 공유 생성뿐 아니라 공유 받기의 익명 인증 처리 안내·동의 흐름 검토
+- [x] 공유 생성·받기에 미리 선택하지 않은 동의 체크박스 추가, 동의 전 인증 요청 차단
 - [ ] 이미지·폰트·명칭의 사용 권리와 비공식 앱 표시 확인
 
 ## 제품 보완
@@ -43,13 +44,13 @@
 ## 최종 시험
 
 - [ ] 운영 Firebase 보안 규칙 게시 상태 확인
-- [ ] 서로 다른 사용자/프로필에서 실제 공유 생성·수신·저장·바로 열기 성공
+- [x] 두 사용자 간 운영 공유 정상 동작 (사용자 확인; 세부 시험 로그는 별도)
 - [ ] 코드 오류·만료·파일 전용 작업공간·인터넷 실패 처리 확인
 - [ ] 스토어용 ZIP을 풀어 새 프로필에서 시험, 누락된 파일 없음
 - [x] 현재 소스의 실제 웨일 일반탭/웹 듀얼탭/파일 듀얼탭 복원 및 기존 탭 보존 확인 (5.39.412.57)
 - [ ] 브라우저 재시작·업데이트 후 저장 데이터 유지 확인
 - [x] 현재 소스의 320px 화면, 키보드 조작, 앱 정보·긴 개인정보 문서 스크롤 확인
-- [ ] 사용자가 보고한 실제 사이드바 닫기·재열기 흐름에서 확인창 재발 여부 확인
+- [x] 최근 사이드바 팝업 오류 해결 확인 (사용자 확인)
 - [ ] 문의 메일 링크 및 공개 개인정보 URL 확인
 - [ ] 최종 버전에 대한 테스트 일시·환경·결과 기록
 

diff --git a/README.md b/README.md
@@ -33,7 +33,7 @@
 
 스토어 공개 전에는 개발자 모드로 설치할 수 있습니다.
 
-**팀원 전달·스토어 업로드 자료:** [delivery 폴더](delivery/)에 [앱 ZIP](delivery/MEWE-0.3.0.zip), 128px 아이콘, 1280×800 스크린샷 2장과 설치·제출 안내를 모았습니다. 개인정보 등 남은 항목이 있는 **제출 후보**이며 최종 심사 요청 전 [체크리스트](docs/release-checklist.md)를 완료하세요. 팀원은 앱 ZIP을 받아 아래 2번부터 진행하면 됩니다.
+**팀원 전달·스토어 업로드 자료:** [delivery 폴더](delivery/)에 [앱 ZIP](delivery/MEWE-0.3.0.zip), 128px 아이콘, 1280×800 스크린샷 2장과 설치·제출 안내를 모았습니다. **제출 후보**이며 심사 요청 전 [체크리스트](docs/release-checklist.md)의 운영 점검을 완료하세요. 팀원은 앱 ZIP을 받아 아래 2번부터 진행하면 됩니다.
 
 1. 저장소 상단 **Code → Download ZIP**을 누르고 압축을 풉니다.
 2. 네이버 웨일 주소창에 `whale://extensions`를 입력합니다.
@@ -58,12 +58,13 @@
 
 - 개인 작업공간은 기기에 저장하며 자동으로 서버에 업로드하지 않습니다.
 - 공유 시 미리보기의 작업공간 이름·웹페이지 정보 등을 서버에 저장합니다. 주소에 개인정보나 비공개 문서 접근 정보가 포함되어 있는지 확인하세요.
-- 공유 코드는 **7일간 유효**합니다. 코드 만료와 서버 데이터 삭제는 다릅니다. 현재 자동 삭제와 앱 내 공유본 철회 기능은 없으며, 삭제 요청은 문의 이메일로 받습니다.
+- 공유 코드는 **7일간 유효**합니다. 담당자가 만료 문서를 매주 정리하고 생성 후 **최대 14일 이내 삭제**합니다. 서버 자동 삭제와 앱 내 철회 기능은 없으며, 삭제 요청은 문의 이메일로 받습니다.
+- 공유하기·공유받기는 개인정보 및 미국 내 인증 정보 처리에 동의한 뒤 사용할 수 있습니다. 동의하지 않아도 개인 작업공간 기능은 사용할 수 있습니다.
 - 로컬 파일은 **경로만 저장**하며 공유에서 제외합니다. 파일을 이동·삭제하면 열 수 없습니다. 로그인 상태와 문서 열람 권한도 전달되지 않습니다.
 - 듀얼탭 복원은 웨일 버전·설정에 영향을 받습니다. 실패하면 일반 탭으로 열고 안내합니다.
 - 닫기는 앱이 이번 실행에서 추적한 탭에 적용됩니다. 브라우저 재시작·확장앱 새로고침 전의 탭과 공유 미리보기에서 **바로 열기**로 연 탭은 저장된 카드의 닫기 대상이 아닙니다.
 
-처리 항목과 삭제 방법은 [개인정보 처리방침 검토본](PRIVACY.md)을 확인하세요. 서버 보관·삭제 일정과 처리 위치 확인 등 [공개 전 확정할 사항](docs/release-checklist.md)이 남아 있습니다.
+처리 항목과 삭제 방법은 [개인정보 처리방침](PRIVACY.md)을 확인하세요. 시행일은 2026-10-12이며, Firestore 저장 위치는 서울입니다. 실제 삭제·요청 처리는 [운영 절차](docs/operations.md)를 따릅니다.
 
 ## 문의
 

diff --git a/docs/releasing.md b/docs/releasing.md
@@ -19,7 +19,7 @@ node scripts/capture-store.cjs
 powershell -NoProfile -File scripts/package-delivery.ps1
 ```
 
-첫 명령은 격리된 웨일에서 실제 앱 UI와 예시 데이터를 1280×800 설명 이미지 2장으로 촬영합니다. 두 번째 명령은 delivery의 앱 ZIP·아이콘·상세 설명·SHA256 목록을 갱신하고 `release/preview-*/`에 전체 전달 묶음 `MEWE-0.3.0-team-kit.zip`을 만듭니다. 개인정보 미완료 안내는 유지됩니다. 압축 해제 결과의 모든 파일을 원본과 해시 비교합니다. 최종 정책/UI가 바뀌면 두 명령을 다시 실행하세요.
+첫 명령은 격리된 웨일에서 실제 앱 UI와 예시 데이터를 1280×800 설명 이미지 2장으로 촬영합니다. 두 번째 명령은 delivery의 앱 ZIP·아이콘·상세 설명·SHA256 목록을 갱신하고 `release/preview-*/`에 전체 전달 묶음 `MEWE-0.3.0-team-kit.zip`을 만듭니다. 운영 점검 안내를 함께 포함합니다. 압축 해제 결과의 모든 파일을 원본과 해시 비교합니다. 최종 정책/UI가 바뀌면 두 명령을 다시 실행하세요.
 
 포장만 따로 확인하려면 기존 도구를 사용할 수 있습니다.
 
@@ -38,7 +38,7 @@ powershell -NoProfile -File scripts/package-preview.ps1
 
 포함 대상은 앱 실행 파일, `assets/`, `shared/`, `features/`, MIT 고지입니다. 개발 테스트, Firebase 운영 규칙, Git 이력, 문서와 임시 파일은 제외합니다. 로고 권리 고지는 `assets/icons/LICENSE.txt`에 포함됩니다.
 
-현재 도구는 개인정보 검토본을 포함하므로 결과물을 **제출 완료본으로 표시하지 않습니다**. 체크리스트 완료 후 최종 후보를 만들고, 그 ZIP을 직접 풀어 새 웨일 프로필에서 검증하세요. 파일명이 같다는 이유로 이전 ZIP을 재사용하지 않습니다.
+포장 도구의 결과물을 **심사 완료본으로 표시하지 않습니다**. 체크리스트 완료 후 최종 후보를 만들고, 그 ZIP을 직접 풀어 새 웨일 프로필에서 검증하세요. 파일명이 같다는 이유로 이전 ZIP을 재사용하지 않습니다.
 
 ## 3. 시험 결과 기록
 

diff --git a/docs/review-notes.md b/docs/review-notes.md
@@ -1,6 +1,16 @@
 # ME:WE 심사 설명 및 시험 방법
 
-대상: 0.3.0. 운영팀 ewhale · 개발자 정희진. 현재 문서는 제출 준비본입니다. 운영 Firebase 최종 검증과 개인정보 미결 항목을 완료한 뒤 심사 자료로 사용합니다.
+대상: 0.3.0. 운영팀 ewhale · 개발자 정희진. 현재 문서는 제출 준비본입니다. 아래 후속 보완 내역과 실제 운영 점검을 함께 확인합니다.
+
+## 후속 보완 — 2026-10-12
+
+- 운영자가 Firestore 서울 설정, 공유 문서 최대 14일 보관·주간 정리, 문의 완료 후 30일 내 삭제에 동의했습니다. 이를 개인정보 처리방침에 반영하고 시행일을 2026-10-12로 명시했습니다. Authentication의 미국 처리·항목·목적·공급자 보관 기간·거부 방법을 별도 안내합니다.
+- 공유 생성·받기에 개인정보/국외 처리 동의 체크박스를 추가했습니다. 기본 미선택이며 체크 전 실행과 Enter 우회가 차단됩니다. 화면을 열거나 동의만 해서는 인증 요청이 나가지 않습니다. 동의 후 실행 버튼을 눌러야 요청하며 처리 중 동의 변경은 잠급니다.
+- 사용자 확인: 실제 두 사용자 간 공유 정상 동작, 최근 사이드바 팝업 오류 해결. 이는 아래 자동 시험과 별도의 사용자 보고입니다.
+- 스토어 규격 이미지 2장과 전달용 ZIP을 최신 정책·UI로 갱신합니다. 이전 ZIP은 재사용하지 않습니다.
+- 만료 자료 주간 정리는 운영자 수동 업무입니다. 콘솔의 실제 삭제와 개별 요청자 확인·삭제 절차 첫 실행은 운영자 점검으로 남습니다. 자동 삭제가 배포되었다고 설명하지 않습니다.
+
+아래 최초 검토는 변경 이력이며, 해소된 사항의 최신 상태는 위 보완 내역과 제출 체크리스트를 기준으로 합니다.
 
 ## 핵심 기능
 
